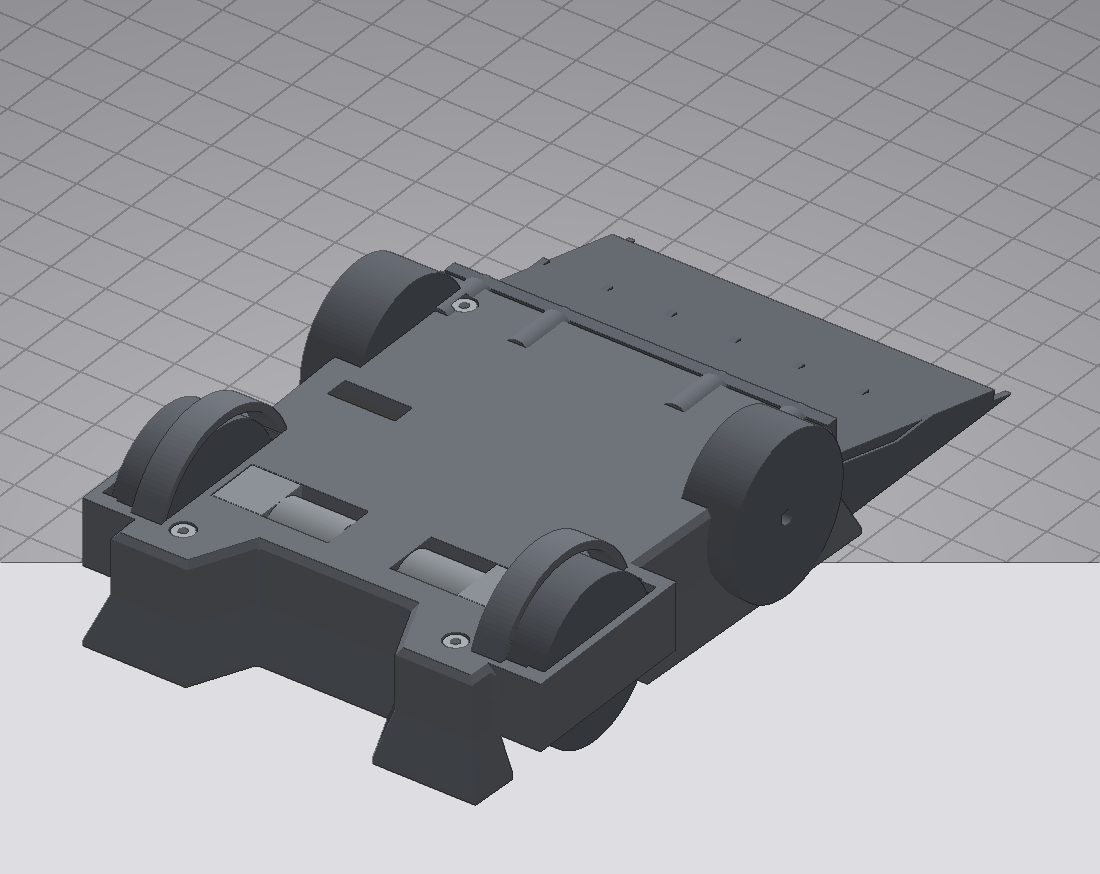
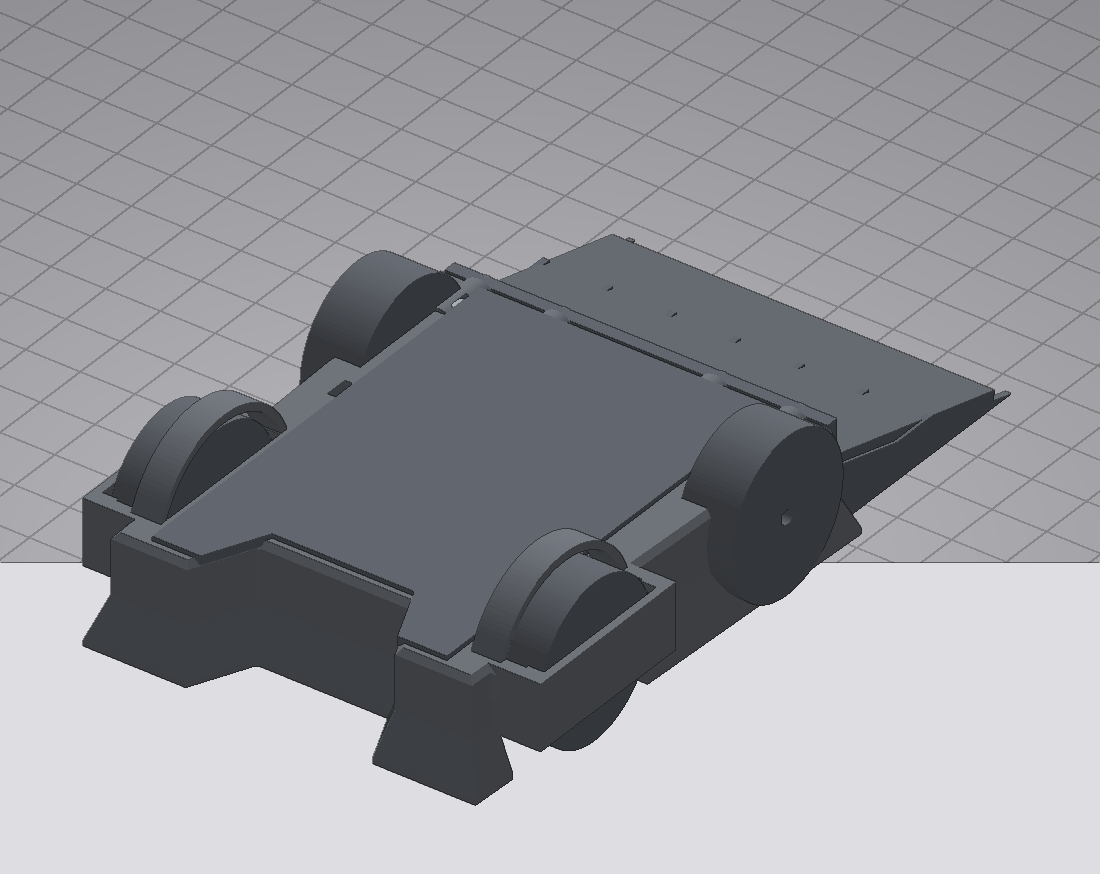
rammstein round 2: carbon top plate
Claude-Session: https://claude.ai/code/session_015mpiJjTw5zcoDZURsFKi5R

diff --git a/robots/rammstein/make_spec.py b/robots/rammstein/make_spec.py
@@ -20,4 +20,9 @@ def walk(n):
     elif isinstance(n, list):
         for v in n: walk(v)
 walk(P["wedge"]["shape"])
+zt = float(json.load(open(f"{R}/robots/rammstein/intent.json")).get("zt", 6))
+plate = {"id": "carbon_plate", "kind": "structure", "material": "petg_cf", "process": "fdm",
+ "shape": {"type": "prism", "points": [[-27,-44],[-18,-44],[-13,-33],[13,-33],[18,-44],[27,-44],[27,38],[-27,38]], "height": 1.6},
+ "at": [0, 0, zt], "label": "carbon top plate"}
+d["parts"].append(plate)
 json.dump(d, open(f"{R}/robots/rammstein/spec.json", "w"), indent=1)

diff --git a/robots/rammstein/STRUGGLES.md b/robots/rammstein/STRUGGLES.md
@@ -3,3 +3,4 @@
 - `robot mask` must be run from repo root (cwd elsewhere gives "invalid choice"); reference paths are relative to the spec, not repo root.
 - Likeness runs 20-130 s with 4 wheels. Silhouette gate on photo 71 is a razor edge vs template (0.83 vs 0.83 fails on rounding).
 - Final: likeness PASS (IoU 0.85 / 0.87). Per coordinator, verify/fasteners NOT run; blocker count unknown.
+- Round 2: added carbon top plate (x +-27, rear notch) between the wheel pockets; likeness still PASS. Remaining diffs: no green/black pods with side cutouts, no steel shovel colour, no stickers/screws, wheels slightly large.
